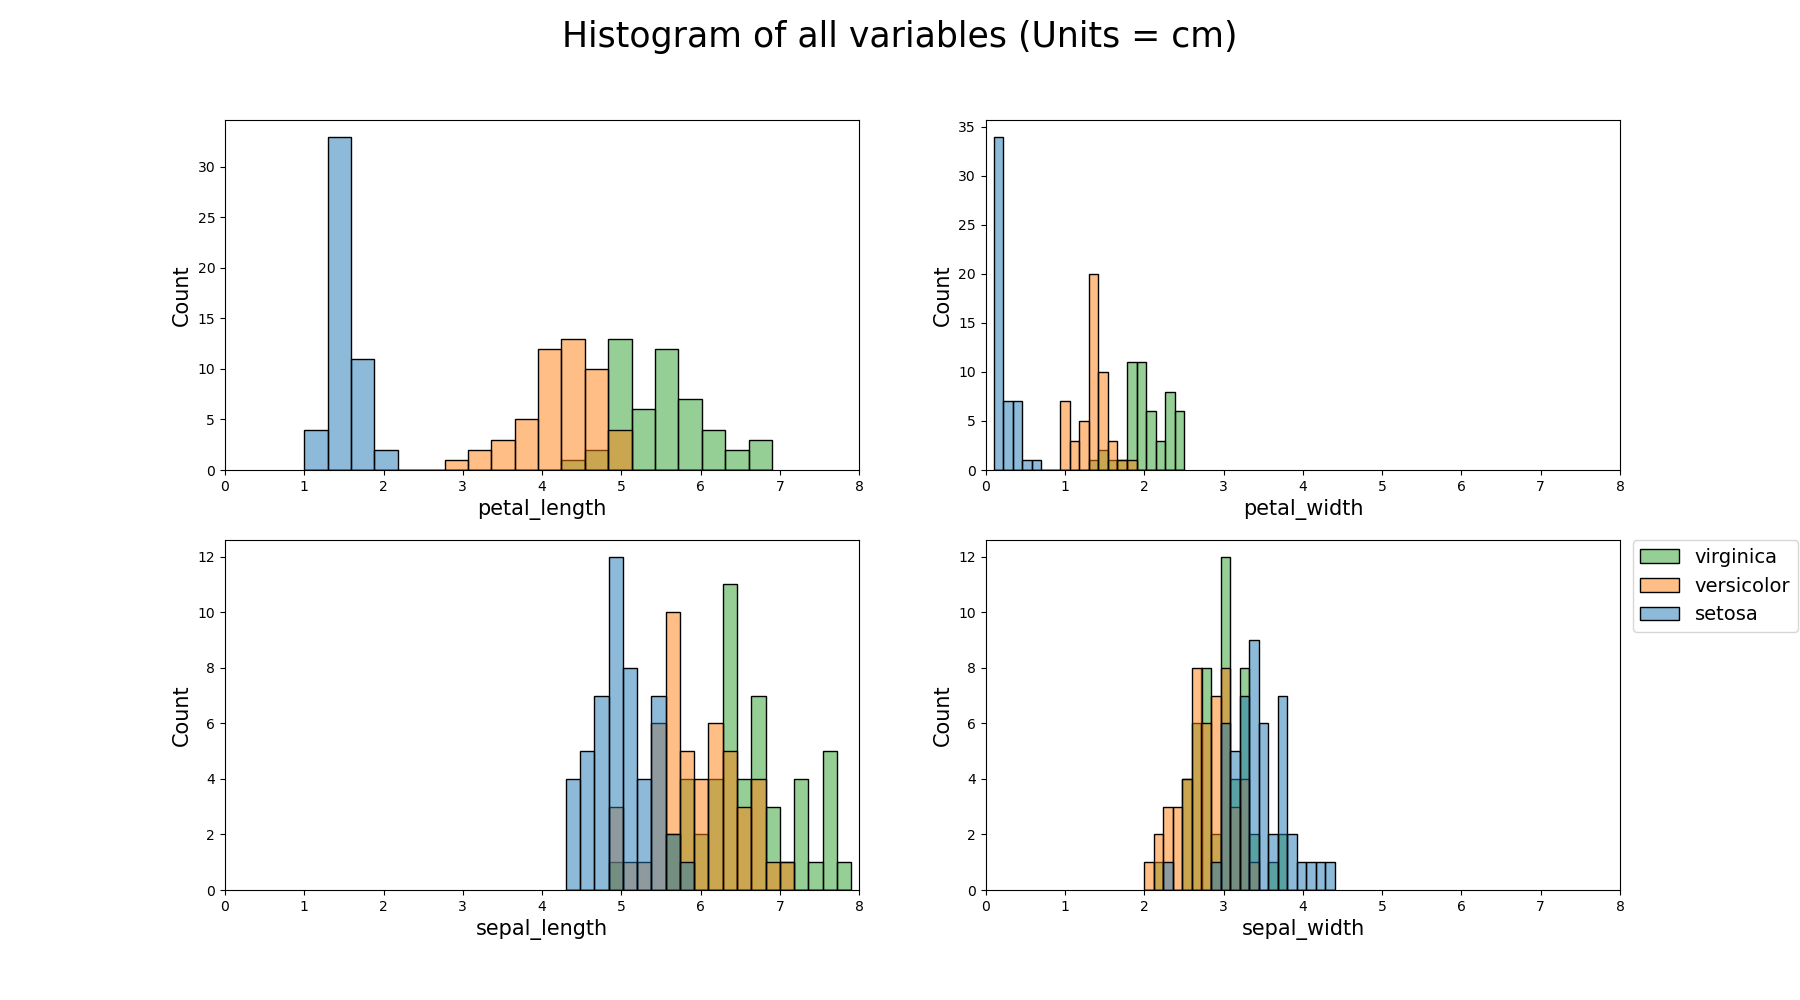
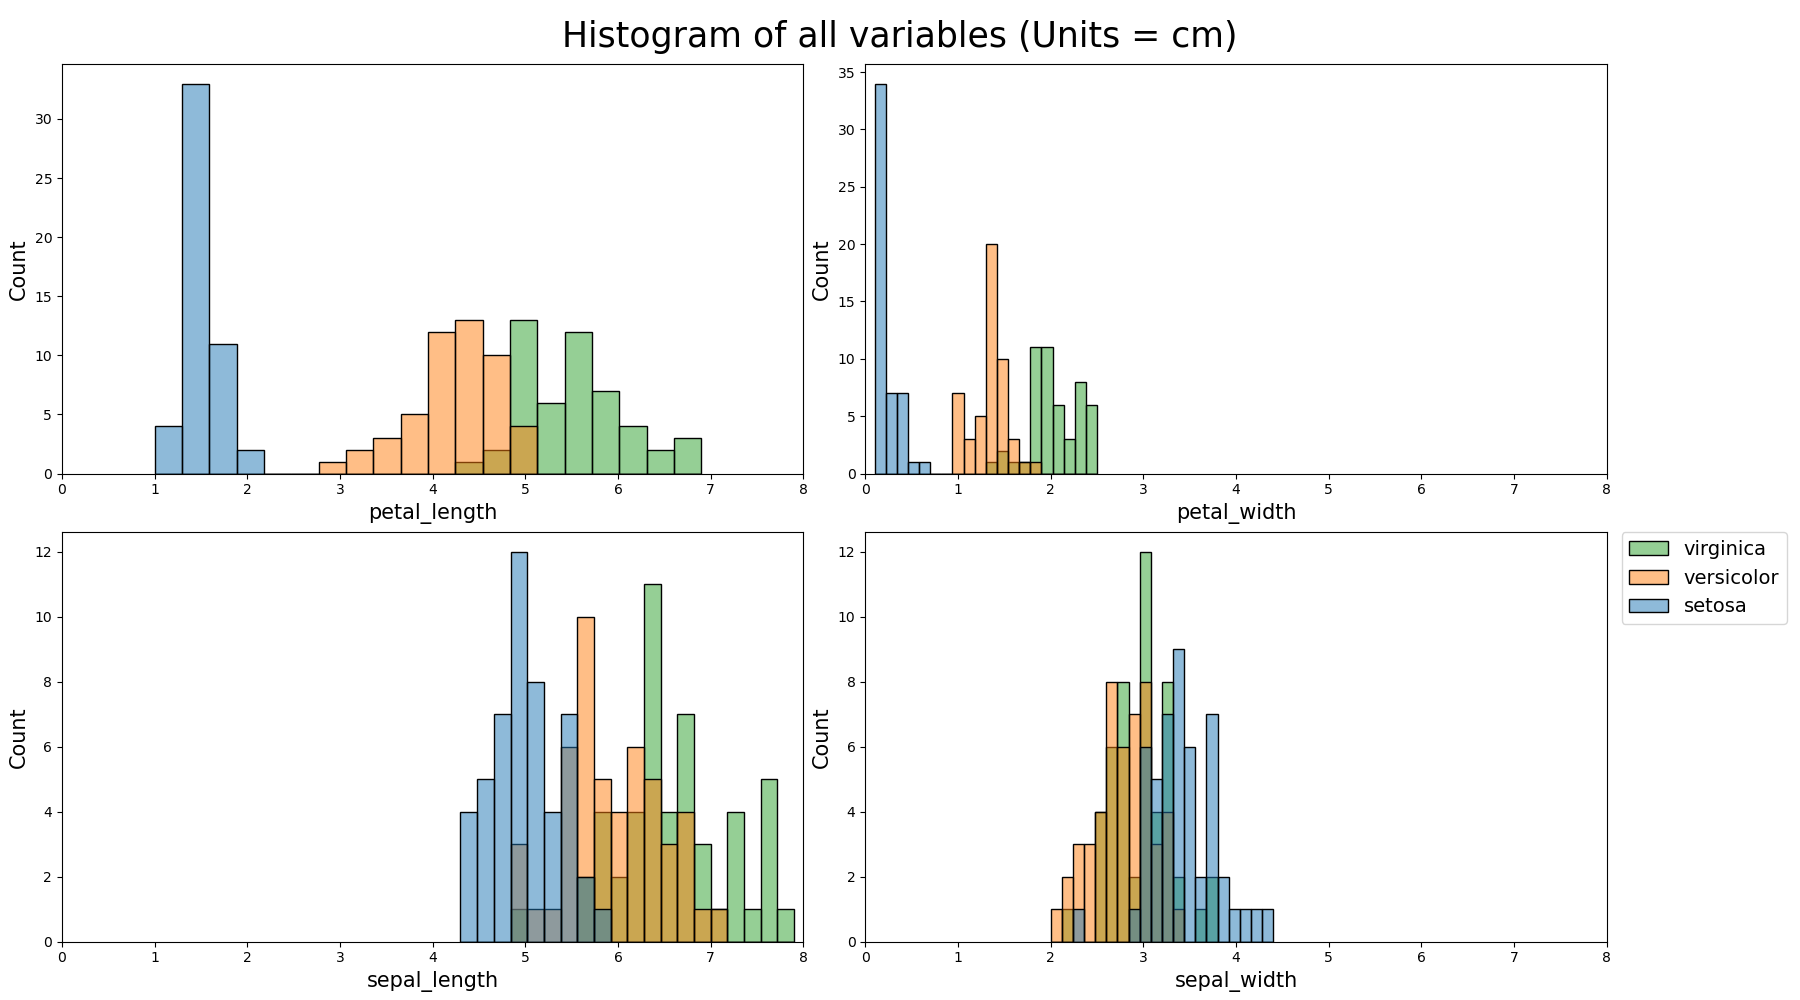
test

diff --git a/Project/analysis.py b/Project/analysis.py
@@ -72,18 +72,19 @@ def scatter_plot():
     sns.scatterplot(ax=axes[1, 0], data=iris_df, x='sepal_length', y='sepal_width', hue = 'species',legend = False)
     sns.scatterplot(ax=axes[1, 1], data=iris_df, x='sepal_length', y='petal_width', hue = 'species',legend = False)
     sns.scatterplot(ax=axes[1, 2], data=iris_df, x='sepal_width',  y='petal_width', hue = 'species')
-
+    fig.tight_layout()
     plt.legend(fontsize='12', loc = 2 ,bbox_to_anchor=(1.02, 1),borderaxespad=0.,)
 
-    x = ax.get_xlabel()
-    y = ax.get_ylabel()
+
     for ax in plt.gcf().axes:
+        x = ax.get_xlabel()
+        y = ax.get_ylabel()
         ax.set_xlabel(x, fontsize=12)
         ax.set_ylabel(y, fontsize=12)
-      
+         
     plt.savefig('Images/' + 'scatter_plots' +'.png')
 
-#scatter_plot()
+scatter_plot()
 
 def plot_histograms():
 
@@ -95,7 +96,7 @@ def plot_histograms():
     sns.histplot(ax=axes[1, 0], data=iris_df, x='sepal_length', hue = 'species', bins = 20, legend = False)
     sns.histplot(ax=axes[1, 1], data=iris_df, x='sepal_width',  hue = 'species', bins = 20)
     plt.legend(fontsize='14', labels = ['virginica', 'versicolor','setosa'], loc = 2 ,bbox_to_anchor=(1.02, 1),borderaxespad=0.,)
-
+    fig.tight_layout()
     for ax in plt.gcf().axes:
         x = ax.get_xlabel()
         y = ax.get_ylabel()
@@ -104,16 +105,9 @@ def plot_histograms():
         ax.set_xlim((0,8))
 
     plt.savefig('Images/' + 'histograms' +'.png')
-    plt.show()
-#plot_histograms()
-#plot_histograms()
+ 
+plot_histograms()
 
-
-
-
-#[*1] GeekforGeeks, 2021, Plotting graph For IRIS Dataset Using Seaborn And Matplotlib, viewed 08 April 2021, https://www.geeksforgeeks.org/plotting-graph-for-iris-dataset-using-seaborn-and-matplotlib/
-
-#[*2] Waskomm M, 2021, seaborn.Pairgrid, viewed 08 April 2021, https://seaborn.pydata.org/generated/seaborn.PairGrid.html 
 
 
 
